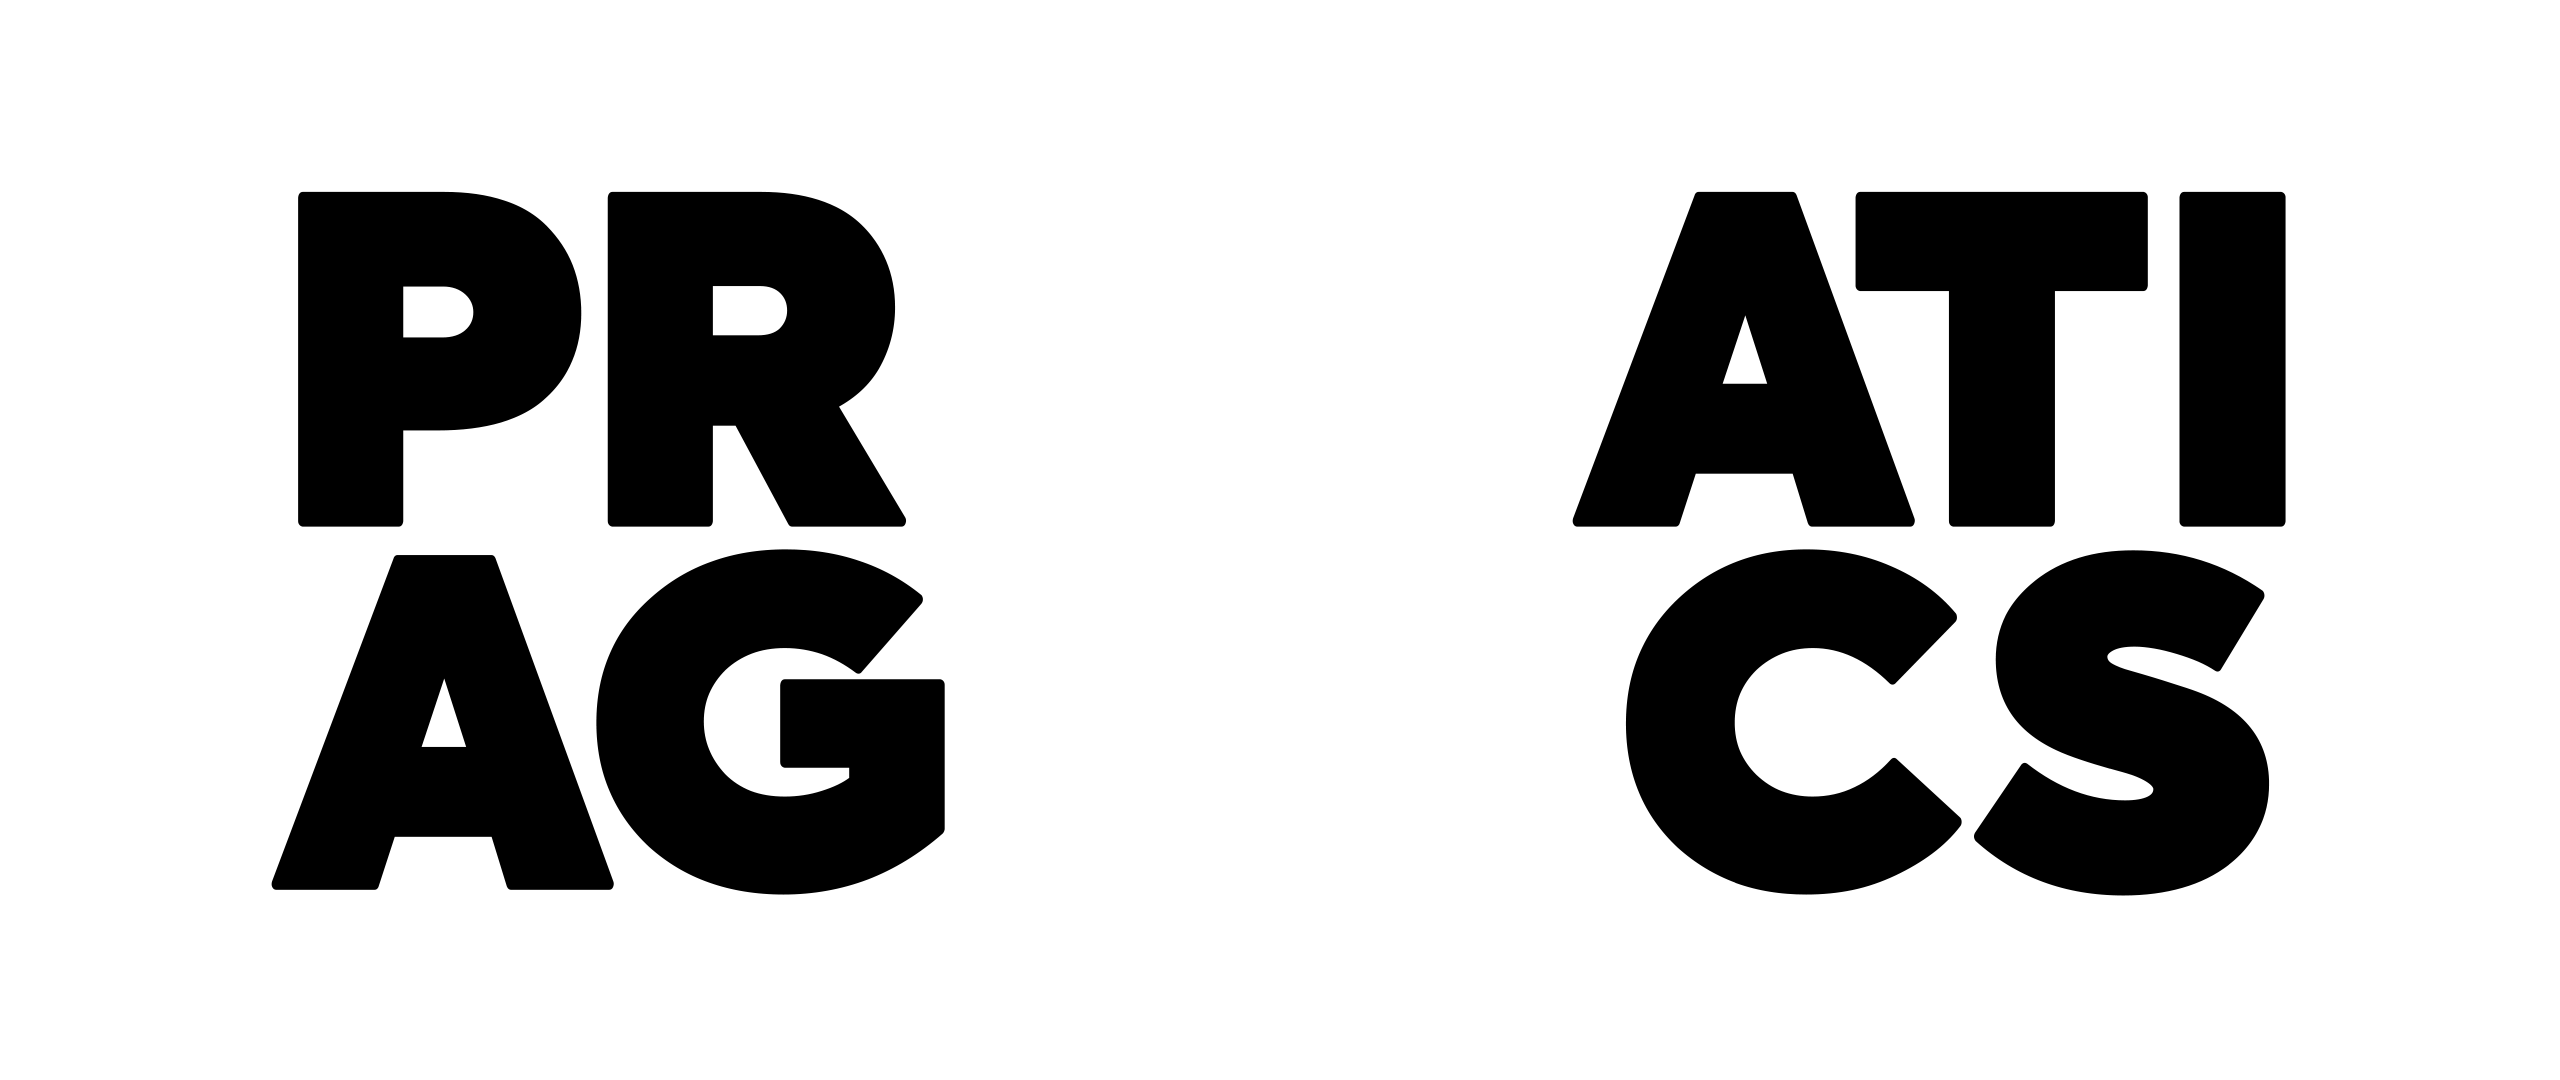
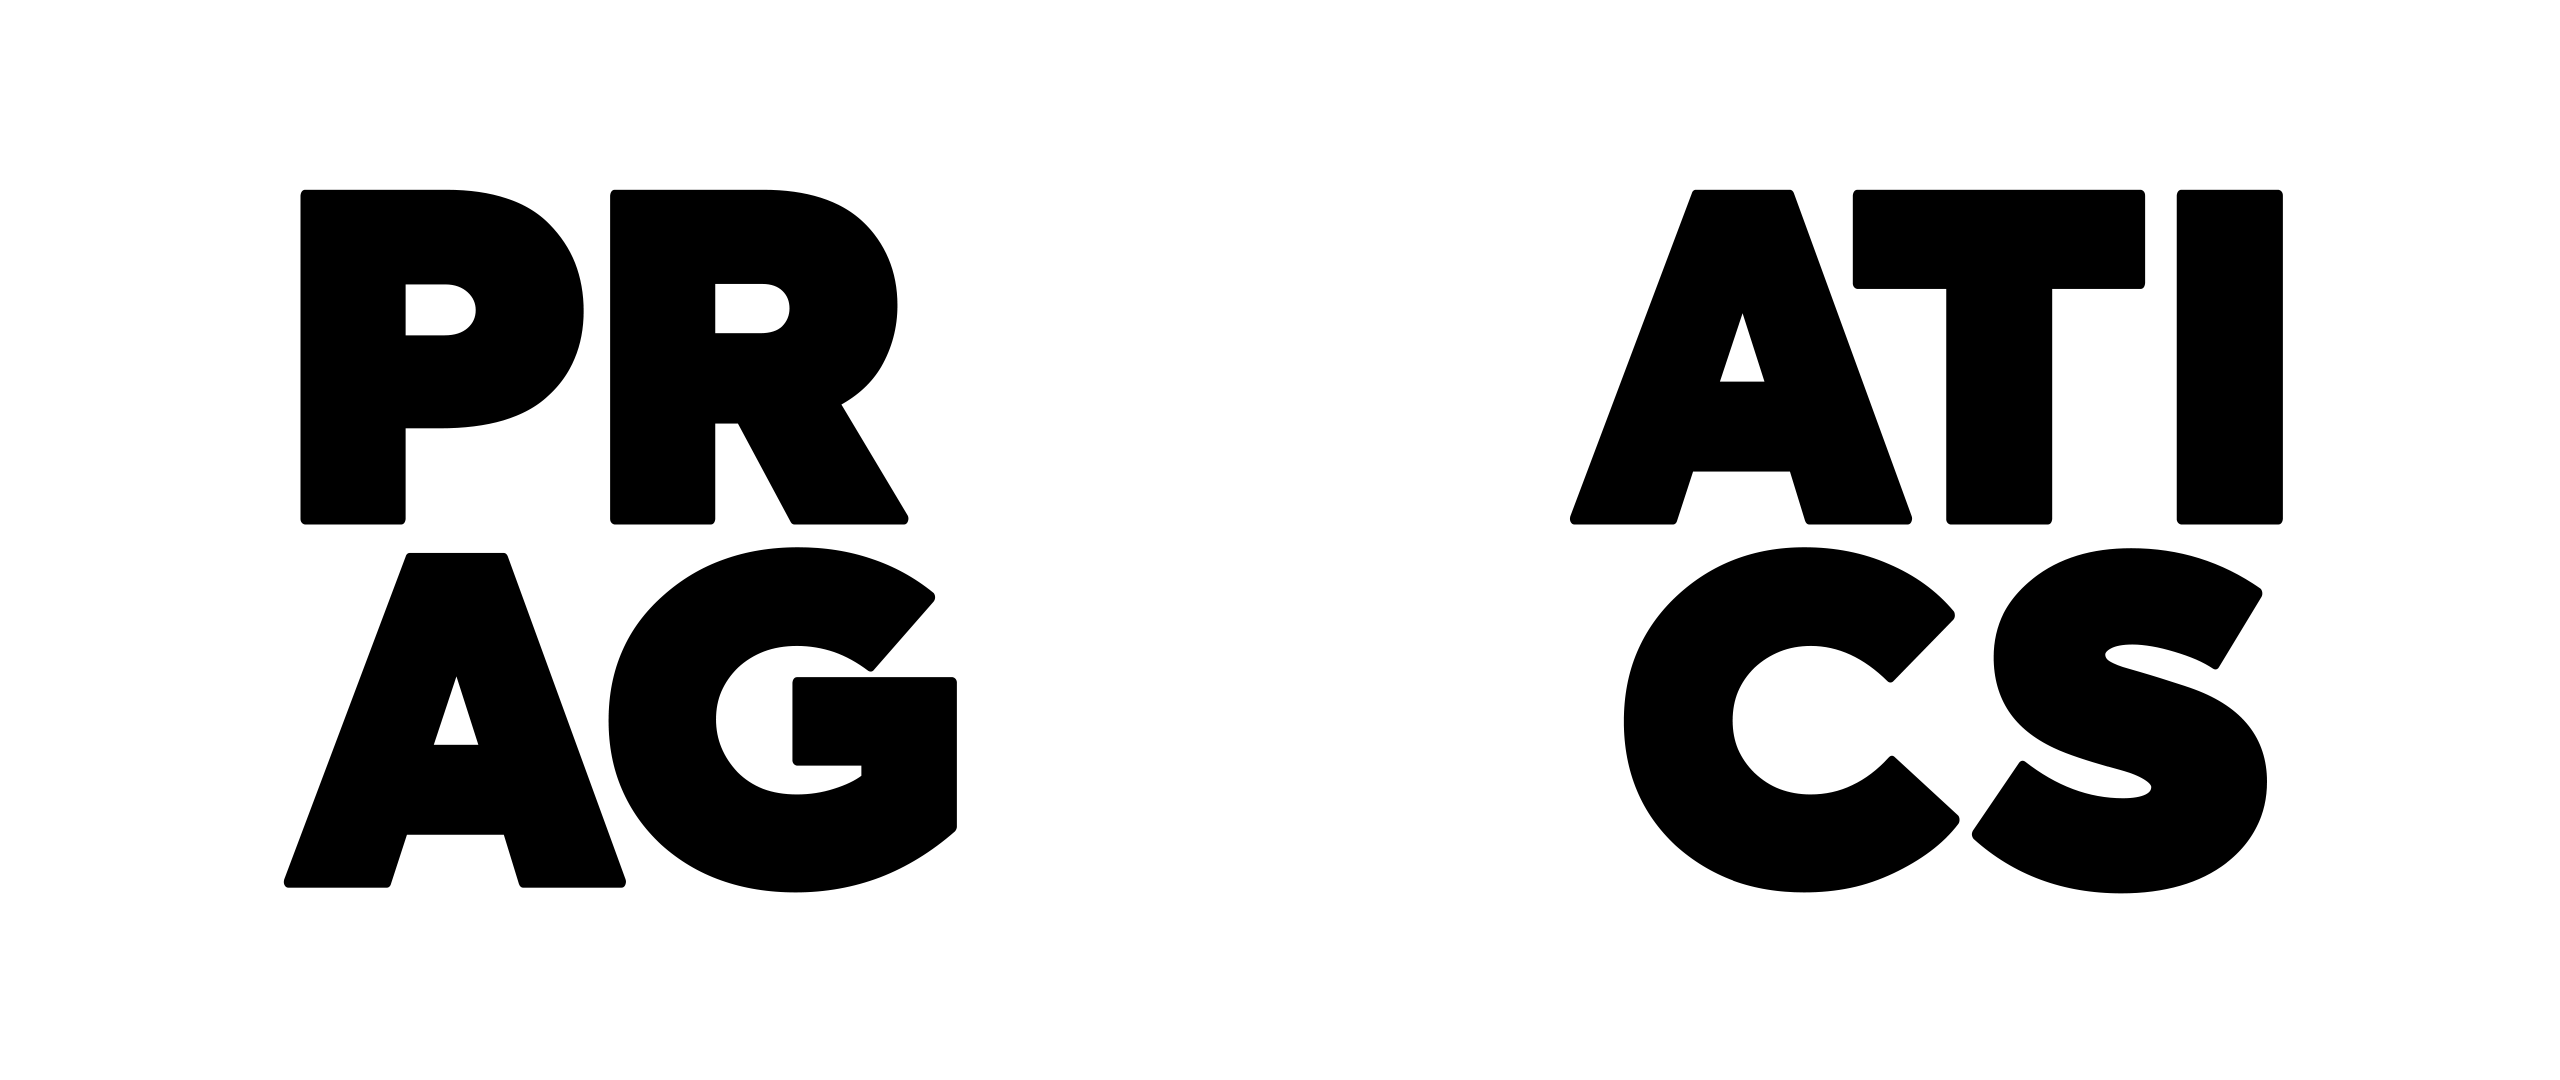
поставил ограничители по ширине бг букв

diff --git a/style.css b/style.css
@@ -259,8 +259,10 @@ body {
   mask-repeat: no-repeat;
   -webkit-mask-position: center;
   mask-position: center;
-  -webkit-mask-size: 35% auto;
-  mask-size: 35% auto;
+  /* …остальные стили… */
+  --mask-max: 21vw; /* выберите нужный предел */
+  -webkit-mask-size: min(35%, var(--mask-max)) auto;
+  mask-size: min(35%, var(--mask-max)) auto;
   -moz-mask-image: url('SOURCE/PRAGMATICS BIG TXT/PRAGATICS.png');
   -moz-mask-repeat: no-repeat;
   -moz-mask-position: center;
